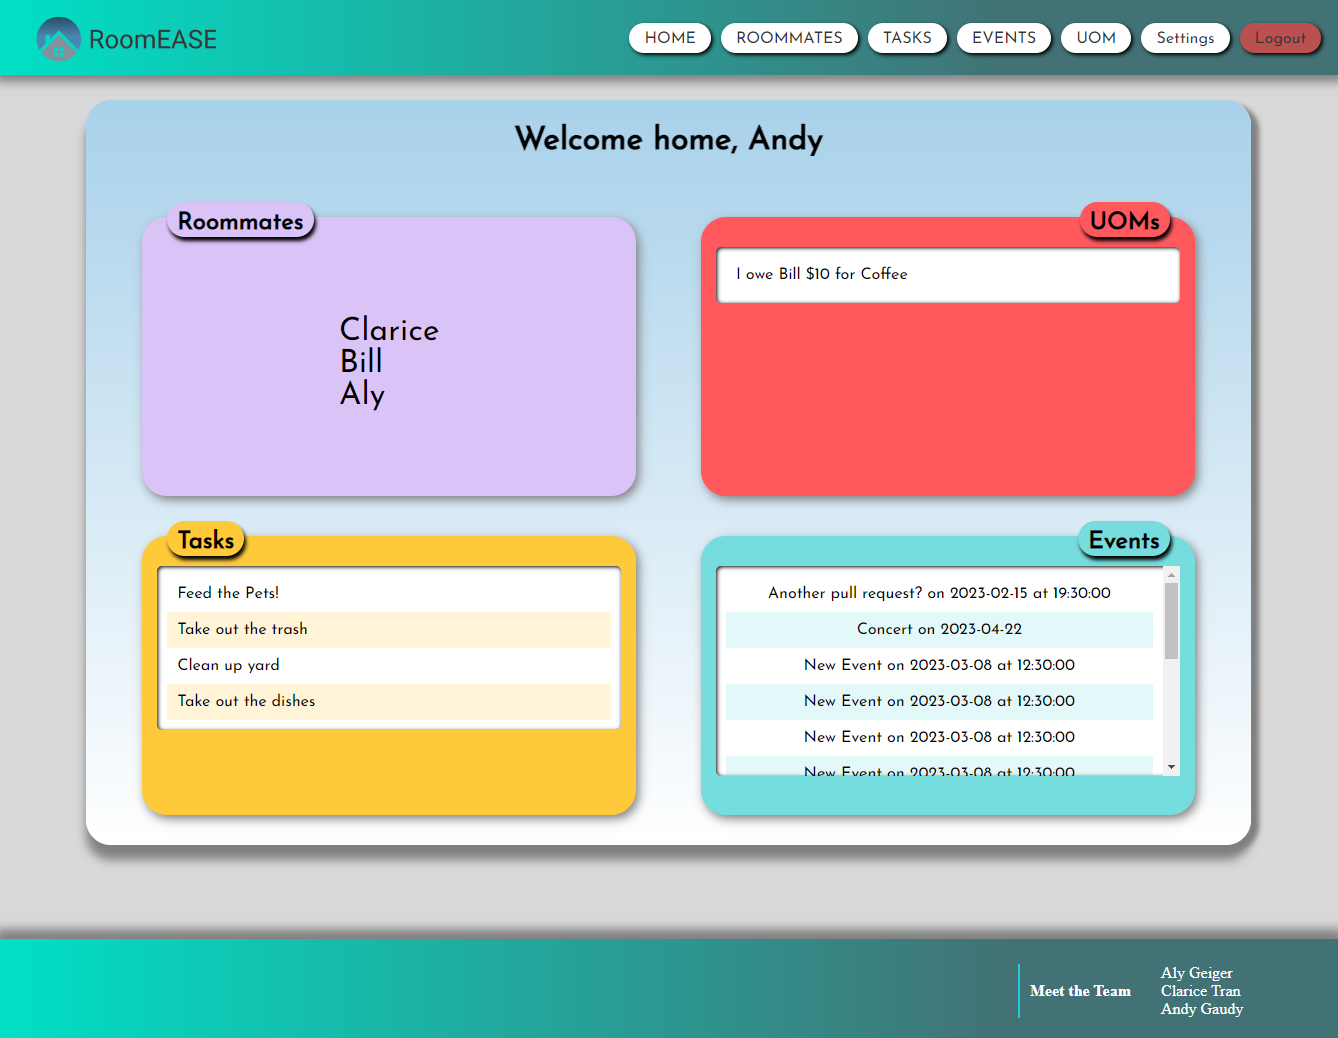
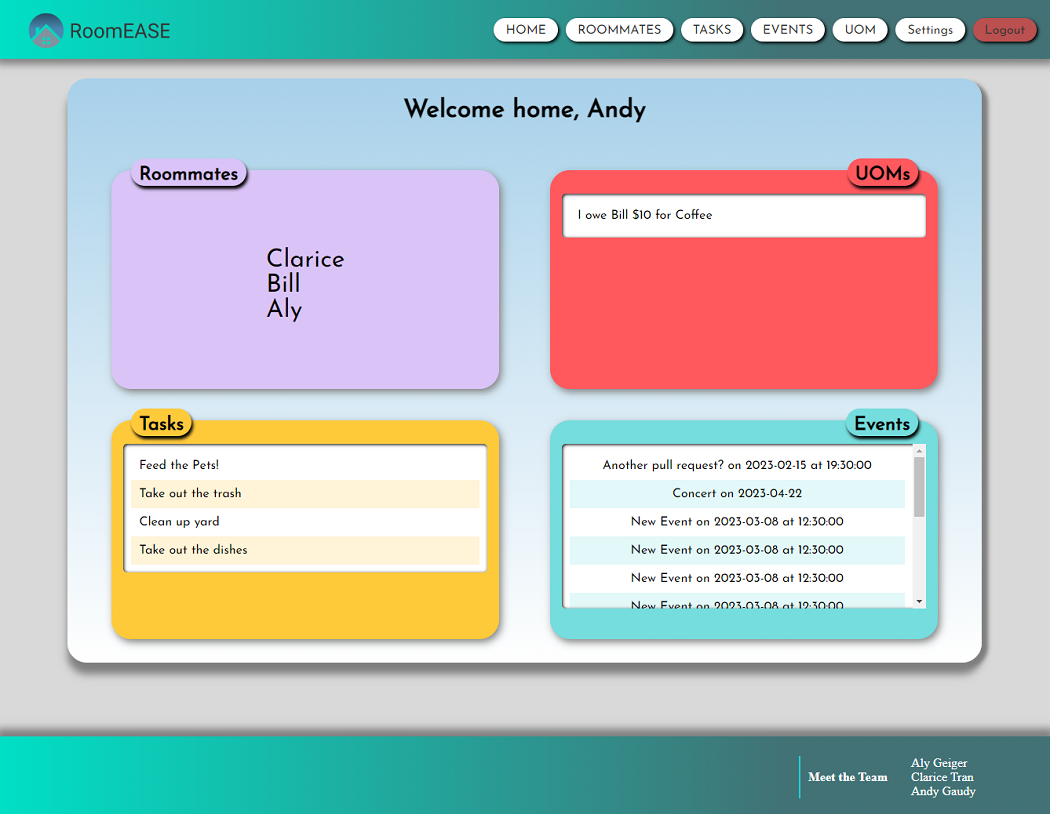
Fixed scroll bug on body for mobile

diff --git a/src/App.css b/src/App.css
@@ -36,11 +36,12 @@ img, video {
     width: 100%;
 }
 
+/* Set body equal to 100vh and set overflow to auto so smaller screens can view content */
 body {
-    height: 600px;
+    height: 100vh;
     background-color: var(--backgroundColor);
     color: white;
-    overflow: hidden;
+    overflow: auto;
 }
 
 .App {
@@ -51,7 +52,6 @@ body {
   justify-content: center;
   align-items: center;
   position: relative;
-  overflow: hidden;
 }
 
 .aboutMeContainer {
